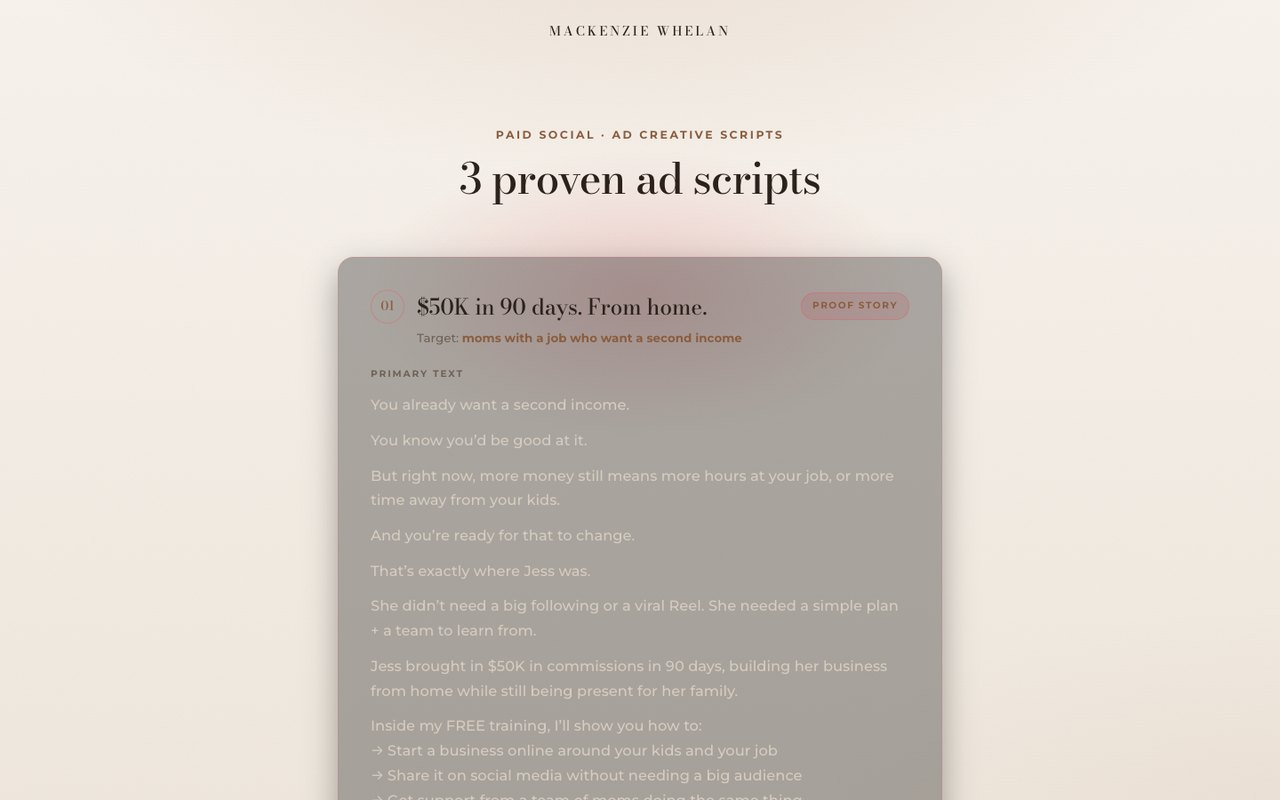
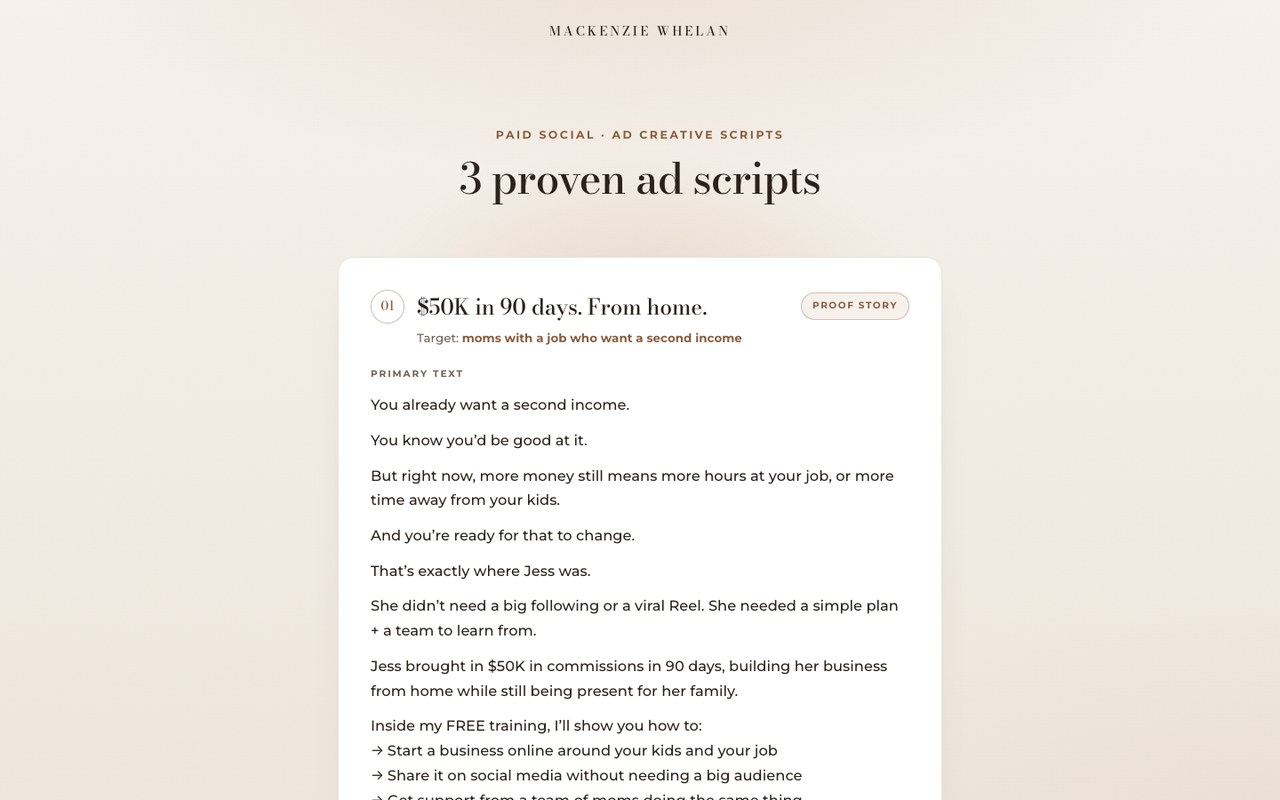
Mackenzie: readable ad scripts, VSL opening matched to live Closing Cabal VSL

diff --git a/vsl-script/index.html b/vsl-script/index.html
@@ -27,27 +27,27 @@
         </header>
         <section class="sec reveal">
           <div class="sec__head"><span class="sec__num">01</span><h2 class="sec__title">Why you're here, and why it isn't enough</h2></div>
-          <div class="sec__body"><p>You follow me for the mom stuff. The morning routines, the wellness tips, the honest chats about juggling a career and a little one. And I love that. Watching another mom do it doesn't change a single thing in your bank account. Inspiration without a plan just leaves you tired and scrolling at eleven at night.</p></div>
+          <div class="sec__body"><p>You're here right now because you came across my content. The morning routines, the wellness tips, being a mom with a full-time career, and you see the life my family has now.</p><p>And the truth is, motivation can only get you so far. If you have all the motivation in the world but no way to actually earn from it, it's useless. If you have a normal job and a great mindset, you'll keep making the same amount of money.</p></div>
         </section>
         <section class="sec reveal">
           <div class="sec__head"><span class="sec__num">02</span><h2 class="sec__title">The promise, and the first proof</h2></div>
-          <div class="sec__body"><p>So in this video I'm going to show you the exact plan my team uses to build a second income online, around a full-time job and a family. Not in theory. Jess is a mom on my team. She brought in fifty thousand dollars in commissions in her first ninety days, building it from home while still being present for her kids.</p></div>
+          <div class="sec__body"><p>Over the past couple of years, a group of moms on my team and I've found that way, and we're building a second income around our jobs and our kids.</p><p>So if you stick with me through this short video, I'm going to show you exactly how to take advantage of the simplest way to build a second income online that nobody has properly explained to you yet.</p><p>Just like Jess, who brought in fifty thousand dollars in commissions in her first ninety days, building it from home while still being present for her kids. And look, I've got plenty more examples like that.</p></div>
         </section>
         <section class="sec reveal">
           <div class="sec__head"><span class="sec__num">03</span><h2 class="sec__title">What this isn't</h2></div>
-          <div class="sec__body"><p>First, here's what it isn't. It's not dropshipping. It's not a garage full of stock you have to sell. It's not messaging every girl you went to school with. And it's not quitting your job and hoping it works out.</p></div>
+          <div class="sec__body"><p>But right off the bat, I want you to know this has nothing to do with needing a big following to start. And it's nothing like dropshipping, a garage full of stock, messaging every girl you went to school with, or any of the other side hustles you've already heard of.</p></div>
         </section>
         <section class="sec reveal">
           <div class="sec__head"><span class="sec__num">04</span><h2 class="sec__title">Name it, and answer "too late"</h2></div>
-          <div class="sec__body"><p>It's building a wellness business online, with products you already use in your own home, and a team that hands you the systems on day one. And if you're thinking everyone is already doing this, you're not late. Nobody showed you how to do it properly.</p></div>
+          <div class="sec__body"><p>So what's this actually called? It's building a wellness business online, with products you already use in your own home and a team that hands you the systems on day one. And don't worry, you're not late. You just weren't shown how.</p></div>
         </section>
         <section class="sec reveal">
           <div class="sec__head"><span class="sec__num">05</span><h2 class="sec__title">Her story, short</h2></div>
-          <div class="sec__body"><p>A few years ago I had a decade-long career and a brand new baby boy. Then my husband's health took a turn, and overnight our whole family was relying on one paycheck. I started with one wellness product I was already using in our home. I still have my career today. The difference is that it's a choice now, not a trap.</p></div>
+          <div class="sec__body"><p>I'm going to walk you through, start to finish, how I built this alongside my career. A few years ago I had a decade-long career and a brand new baby boy. Then my husband's health took a turn, and overnight our whole family was relying on one paycheck. I remember how scared I was back then.</p><p>I started with one wellness product I was already using in our home. I still have my career today. The difference is that it's a choice now, not a trap. So it doesn't matter what your background is.</p></div>
         </section>
         <section class="sec reveal">
           <div class="sec__head"><span class="sec__num">06</span><h2 class="sec__title">Why now</h2></div>
-          <div class="sec__body"><p>Everything costs more than it did two years ago. Groceries, daycare, fuel. Most families I talk to are one surprise bill away from real stress. A second income used to be a nice idea. For a lot of moms right now, it's the plan.</p></div>
+          <div class="sec__body"><p>And I'll be the one to tell you, you're watching this at a perfect time. Everything costs more than it did two years ago. Groceries, daycare, fuel. Most families I talk to are one surprise bill away from real stress. A second income used to be a nice idea. For a lot of moms right now, it's the plan.</p></div>
         </section>
         <section class="sec reveal">
           <div class="sec__head"><span class="sec__num">07</span><h2 class="sec__title">Who this is for</h2></div>

diff --git a/ad-scripts/ad-scripts.css b/ad-scripts/ad-scripts.css
@@ -8,7 +8,7 @@
 .ads__glow {
   position: absolute; top: clamp(-30px, 2vw, 40px); left: 50%; transform: translateX(-50%);
   width: min(880px, 118vw); height: 460px; z-index: 0; pointer-events: none;
-  background: radial-gradient(50% 50% at 50% 50%, rgba(196, 30, 51, 0.16), rgba(196, 30, 51, 0) 70%);
+  background: radial-gradient(50% 50% at 50% 50%, rgba(176,122,82,0.16), rgba(176,122,82,0) 70%);
 }
 @media (prefers-reduced-motion: no-preference) {
   .ads__glow { animation: adsBreathe 9s var(--ease) infinite alternate; will-change: transform, opacity; }
@@ -27,30 +27,30 @@
 .ads__list { display: flex; flex-direction: column; gap: clamp(20px, 2.6vw, 28px); }
 
 /* --- ad card --- */
-.ad { position: relative; background: rgba(0, 0, 0, 0.30); border: 1px solid rgba(238, 84, 102, 0.16);
-  border-radius: 18px; padding: clamp(24px, 3.2vw, 36px); box-shadow: 0 14px 34px rgba(0, 0, 0, 0.34); }
+.ad { position: relative; background: var(--surface); border: 1px solid var(--hair);
+  border-radius: 18px; padding: clamp(24px, 3.2vw, 36px); box-shadow: 0 20px 40px -28px rgba(43,34,28,.35); }
 .ad__head { display: flex; align-items: center; gap: 14px; margin-bottom: 6px; flex-wrap: wrap; }
 .ad__num { flex: none; width: 38px; height: 38px; display: grid; place-items: center; border-radius: 50%;
-  border: 1px solid rgba(238,84,102,.4); font-family: var(--display); font-weight: 500; font-size: .9rem; color: var(--accent-text); }
+  border: 1px solid rgba(138,92,62,.4); font-family: var(--display); font-weight: 500; font-size: .9rem; color: var(--accent-text); }
 .ad__title { margin: 0; font-family: var(--display); font-weight: 500; font-size: clamp(1.25rem, 1rem + .9vw, 1.55rem);
   line-height: 1.15; letter-spacing: -.01em; color: var(--ink); }
 .ad__angle { margin-left: auto; font-family: var(--sans); font-size: .66rem; font-weight: 700; letter-spacing: .14em;
-  text-transform: uppercase; color: var(--accent-text); padding: 6px 12px; border: 1px solid rgba(238,84,102,.35);
-  background: rgba(196,30,51,.1); border-radius: 999px; white-space: nowrap; }
+  text-transform: uppercase; color: var(--accent-text); padding: 6px 12px; border: 1px solid rgba(138,92,62,.35);
+  background: rgba(176,122,82,.1); border-radius: 999px; white-space: nowrap; }
 .ad__target { margin: 4px 0 20px; padding-left: 52px; font-family: var(--sans); font-size: .84rem; color: var(--muted); }
 .ad__target b { color: var(--accent-text); font-weight: 700; }
 
 .ad__label { display: block; font-family: var(--sans); font-size: .66rem; font-weight: 700; letter-spacing: .18em;
   text-transform: uppercase; color: var(--muted); margin: 22px 0 12px; }
-.ad__body p { margin: 0 0 12px; font-family: var(--sans); font-size: 1.02rem; line-height: 1.7; color: #d6ccc0; }
+.ad__body p { margin: 0 0 12px; font-family: var(--sans); font-size: 1.02rem; line-height: 1.7; color: var(--ink); }
 .ad__body p:last-child { margin-bottom: 0; }
 .ad__body em { font-style: normal; color: var(--ink); font-weight: 700; }
 
 /* CTA block inside the card */
 .ad__cta { margin-top: 22px; display: flex; align-items: flex-start; gap: 14px;
-  padding: 16px 18px; border-radius: 12px; border: 1px solid rgba(238,84,102,.3); background: rgba(196,30,51,.08); }
+  padding: 16px 18px; border-radius: 12px; border: 1px solid rgba(138,92,62,.3); background: rgba(176,122,82,.08); }
 .ad__cta-icon { flex: none; width: 34px; height: 34px; border-radius: 8px; display: grid; place-items: center;
-  background: rgba(196,30,51,.16); border: 1px solid rgba(238,84,102,.35); margin-top: 2px; }
+  background: rgba(176,122,82,.16); border: 1px solid rgba(138,92,62,.35); margin-top: 2px; }
 .ad__cta-icon svg { width: 17px; height: 17px; stroke: var(--accent-text); fill: none; stroke-width: 1.9; stroke-linecap: round; stroke-linejoin: round; }
 .ad__cta-label { display: block; font-family: var(--sans); font-size: .62rem; font-weight: 700; letter-spacing: .18em;
   text-transform: uppercase; color: var(--accent-text); margin-bottom: 4px; }

diff --git a/index.html b/index.html
@@ -249,8 +249,8 @@
             <span class="group__rule"></span>
           </div>
           <div class="grid grid--1">
-            <button class="pcard pcard--wide reveal" data-title="VSL script" data-embed="vsl-script/?v=2">
-              <span class="thumb thumb--wide"><span class="thumb__bar"><i></i><i></i><i></i><span class="thumb__url">script · 13 boxes</span></span><img class="thumb__img" src="assets/img/vslscript-preview.jpg?v=3" alt="VSL script preview" loading="lazy" /></span>
+            <button class="pcard pcard--wide reveal" data-title="VSL script" data-embed="vsl-script/?v=3">
+              <span class="thumb thumb--wide"><span class="thumb__bar"><i></i><i></i><i></i><span class="thumb__url">script · 13 boxes</span></span><img class="thumb__img" src="assets/img/vslscript-preview.jpg?v=4" alt="VSL script preview" loading="lazy" /></span>
               <span class="pcard__body"><span><span class="pcard__kicker">~10 min · 13 boxes</span><span class="pcard__title">VSL script</span><span class="pcard__desc">Thirteen boxes on a proven running order for women starting from zero, with your story and your team&rsquo;s real numbers.</span></span><span class="pcard__link">Open preview <span class="arrow" aria-hidden="true"></span></span></span>
             </button>
           </div>
@@ -271,8 +271,8 @@
               <span class="thumb"><span class="thumb__bar"><i></i><i></i><i></i><span class="thumb__url">instagram.com/mackenziewhelan</span></span><img class="thumb__img" src="assets/img/carousel-preview.jpg?v=1792787539" alt="Instagram carousel ad preview" loading="lazy" /></span>
               <span class="pcard__body"><span><span class="pcard__kicker">Meta ad · Carousel</span><span class="pcard__title">Instagram carousel ad</span><span class="pcard__desc">Seven slides built on a working-mom ad that&rsquo;s been running for months, with your team&rsquo;s real numbers, ending on &ldquo;Comment READY.&rdquo;</span></span><span class="pcard__link">Open preview <span class="arrow" aria-hidden="true"></span></span></span>
             </button>
-            <button class="pcard reveal" data-title="3 proven ad scripts" data-embed="ad-scripts/?v=1">
-              <span class="thumb"><span class="thumb__bar"><i></i><i></i><i></i><span class="thumb__url">ad scripts</span></span><img class="thumb__img" src="assets/img/adscripts-preview.jpg?v=1" alt="3 proven ad scripts preview" loading="lazy" /></span>
+            <button class="pcard reveal" data-title="3 proven ad scripts" data-embed="ad-scripts/?v=2">
+              <span class="thumb"><span class="thumb__bar"><i></i><i></i><i></i><span class="thumb__url">ad scripts</span></span><img class="thumb__img" src="assets/img/adscripts-preview.jpg?v=2" alt="3 proven ad scripts preview" loading="lazy" /></span>
               <span class="pcard__body"><span><span class="pcard__kicker">Primary text · 3 ads</span><span class="pcard__title">3 proven ad scripts</span><span class="pcard__desc">Three scripts, each built on a proven ad aimed at working moms, rewritten with your team&rsquo;s real results.</span></span><span class="pcard__link">Open preview <span class="arrow" aria-hidden="true"></span></span></span>
             </button>
           </div>

diff --git a/ad-scripts/index.html b/ad-scripts/index.html
@@ -10,7 +10,7 @@
   <link rel="stylesheet" href="../assets/vendor/lenis.css" />
   <link rel="stylesheet" href="../vsl/vsl.css" />
   <link rel="stylesheet" href="../assets/brand.css" />
-  <link rel="stylesheet" href="ad-scripts.css" />
+  <link rel="stylesheet" href="ad-scripts.css?v=2" />
 </head>
 <body>
   <header class="brandbar">
